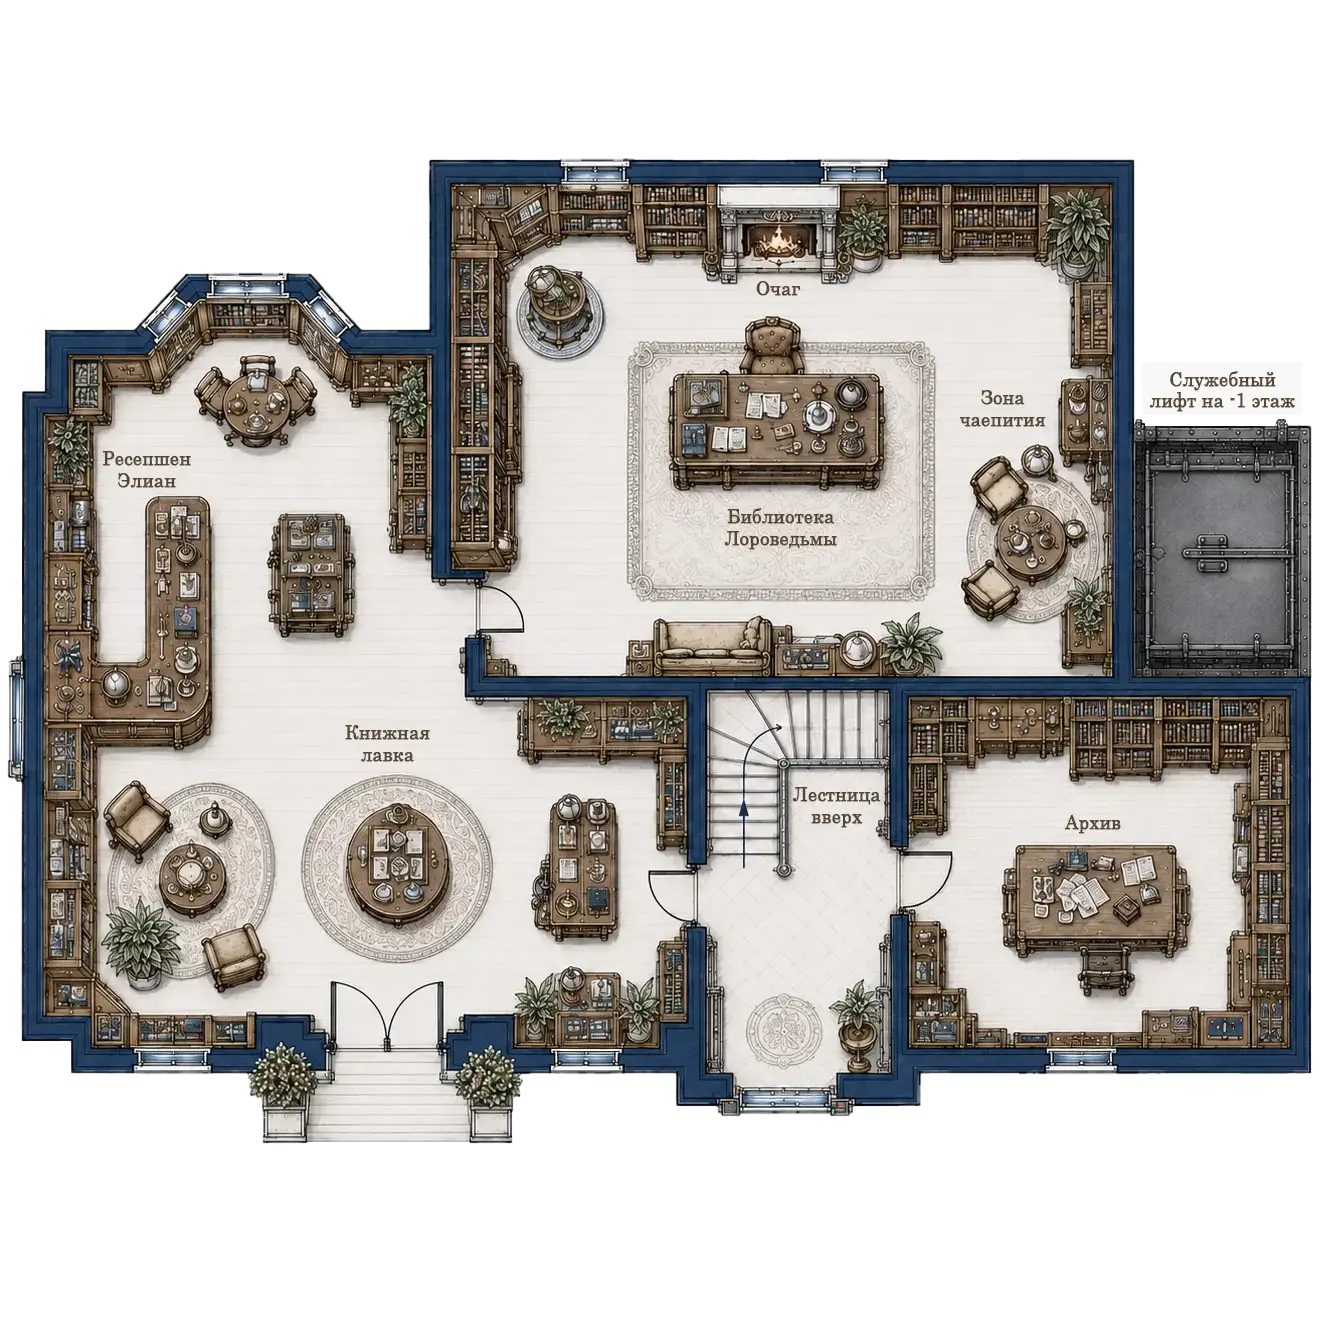
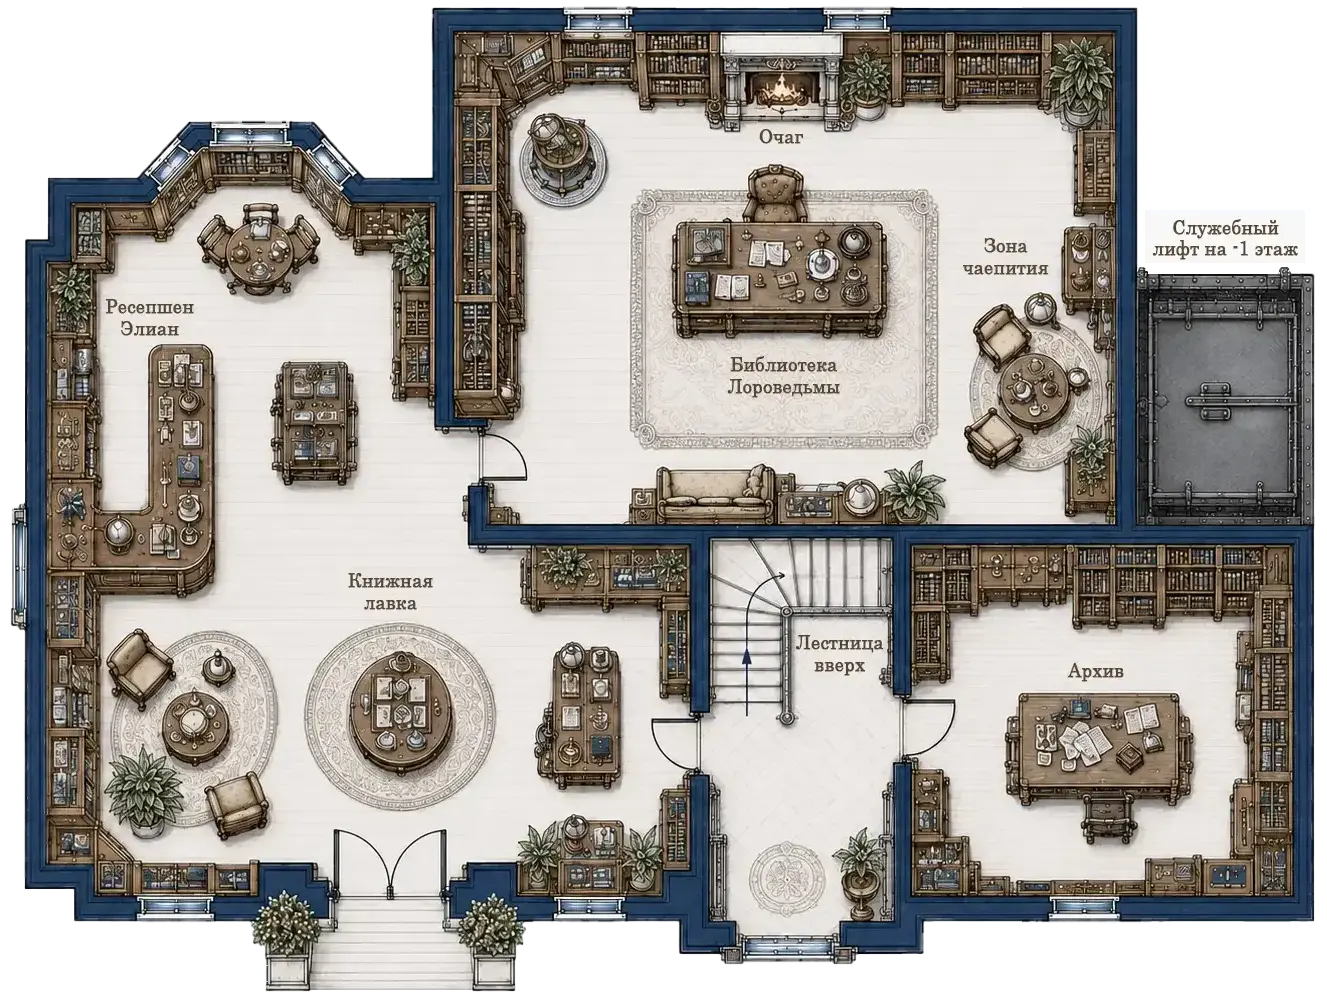
upd v8

diff --git a/style.css b/style.css
@@ -1247,3 +1247,226 @@ h1 {
     height: 92vh;
   }
 }
+
+
+/* === v7: ровные карточки, наклонены только чертежи, кликабельная пустая область === */
+
+.blueprint-grid {
+  display: grid;
+  grid-template-columns: repeat(3, minmax(0, 1fr));
+  gap: 1.05rem;
+  align-items: stretch;
+}
+
+.blueprint-card,
+.blueprint-card.tilt-left,
+.blueprint-card.tilt-right,
+.blueprint-card.tilt-left-small,
+.blueprint-card.tilt-left:hover,
+.blueprint-card.tilt-right:hover,
+.blueprint-card.tilt-left-small:hover {
+  transform: none !important;
+}
+
+.blueprint-card {
+  position: relative;
+  overflow: visible;
+  padding: .95rem .95rem 1rem;
+  border: 1px solid var(--line);
+  border-radius: 1.65rem;
+  background:
+    radial-gradient(circle at 20% 0%, rgba(242, 200, 120, .08), transparent 13rem),
+    linear-gradient(145deg, rgba(255, 244, 218, .085), rgba(255, 244, 218, .03));
+  box-shadow: var(--shadow);
+  transition: border-color .25s ease, translate .25s ease;
+}
+
+.blueprint-card:hover {
+  translate: 0 -.25rem;
+  border-color: rgba(242, 200, 120, .38);
+}
+
+.blueprint-preview {
+  position: relative;
+  width: 100%;
+  aspect-ratio: 4 / 3;
+  display: grid;
+  place-items: center;
+  overflow: visible;
+  padding: 0;
+  border: 0;
+  border-radius: 1.15rem;
+  background:
+    radial-gradient(circle at center, rgba(255, 244, 218, .075), transparent 72%),
+    rgba(255, 244, 218, .022);
+  cursor: zoom-in;
+}
+
+.blueprint-preview::before {
+  content: "";
+  position: absolute;
+  inset: .8rem;
+  border: 1px solid rgba(242, 200, 120, .15);
+  border-radius: 1rem;
+  background: rgba(255, 244, 218, .025);
+}
+
+.blueprint-preview img {
+  position: relative;
+  z-index: 2;
+  width: 112%;
+  height: 112%;
+  object-fit: contain;
+  object-position: center;
+  filter: drop-shadow(0 18px 22px rgba(0, 0, 0, .34));
+  transition: transform .25s ease, filter .25s ease;
+}
+
+.blueprint-card:nth-child(1) .blueprint-preview img {
+  transform: rotate(-3deg) scale(1.03);
+}
+
+.blueprint-card:nth-child(2) .blueprint-preview img {
+  transform: rotate(2.4deg) scale(1.03);
+}
+
+.blueprint-card:nth-child(3) .blueprint-preview img {
+  transform: rotate(-2.2deg) scale(1.03);
+}
+
+.blueprint-card:nth-child(1):hover .blueprint-preview img {
+  transform: rotate(-1.4deg) scale(1.08);
+}
+
+.blueprint-card:nth-child(2):hover .blueprint-preview img {
+  transform: rotate(1.1deg) scale(1.08);
+}
+
+.blueprint-card:nth-child(3):hover .blueprint-preview img {
+  transform: rotate(-.9deg) scale(1.08);
+}
+
+.blueprint-body {
+  position: relative;
+  z-index: 3;
+  padding: .8rem .25rem .1rem;
+}
+
+.plan-modal[hidden] {
+  display: none !important;
+}
+
+.plan-modal {
+  position: fixed;
+  inset: 0;
+  z-index: 100;
+  display: grid;
+  place-items: center;
+  padding: 2.5rem;
+  background: rgba(5, 3, 7, .80);
+  backdrop-filter: blur(10px);
+  cursor: zoom-out;
+}
+
+.plan-modal > img {
+  width: min(96vw, 1500px);
+  height: min(90vh, 1050px);
+  display: block;
+  object-fit: contain;
+  filter: drop-shadow(0 24px 52px rgba(0, 0, 0, .66));
+  cursor: default;
+  pointer-events: auto;
+}
+
+.plan-modal-close {
+  position: fixed;
+  top: 1.1rem;
+  right: 1.1rem;
+  z-index: 105;
+  width: 2.6rem;
+  height: 2.6rem;
+  border: 1px solid rgba(242, 200, 120, .34);
+  border-radius: 999px;
+  color: var(--text);
+  background: rgba(18, 11, 18, .72);
+  font-size: 1.7rem;
+  line-height: 1;
+  cursor: pointer;
+}
+
+.plan-modal-dialog,
+.plan-modal-dialog h3 {
+  all: unset;
+}
+
+.carousel-button {
+  display: none !important;
+}
+
+.resident-viewport {
+  overflow: hidden;
+}
+
+.resident-track {
+  display: flex;
+  gap: .9rem;
+  will-change: transform;
+  transition: transform .72s cubic-bezier(.22, .8, .28, 1);
+}
+
+.resident-track .resident-card {
+  flex: 0 0 calc((100% - 1.8rem) / 3);
+  min-width: calc((100% - 1.8rem) / 3);
+}
+
+.carousel-dots {
+  display: flex;
+  justify-content: center;
+  align-items: center;
+  gap: .55rem;
+  margin-top: .7rem;
+}
+
+.carousel-dot {
+  width: .7rem;
+  height: .7rem;
+  padding: 0;
+  border: 1px solid rgba(242, 200, 120, .42);
+  border-radius: 999px;
+  background: rgba(255, 244, 218, .12);
+  cursor: pointer;
+  transition: transform .2s ease, background .2s ease, width .2s ease;
+}
+
+.carousel-dot.active {
+  width: 1.55rem;
+  background: var(--gold);
+  transform: translateY(-1px);
+}
+
+@media (max-width: 1120px) {
+  .blueprint-grid {
+    grid-template-columns: 1fr;
+  }
+
+  .resident-track .resident-card {
+    flex-basis: calc((100% - .9rem) / 2);
+    min-width: calc((100% - .9rem) / 2);
+  }
+}
+
+@media (max-width: 620px) {
+  .resident-track .resident-card {
+    flex-basis: 100%;
+    min-width: 100%;
+  }
+
+  .plan-modal {
+    padding: .75rem;
+  }
+
+  .plan-modal > img {
+    width: 98vw;
+    height: 92vh;
+  }
+}

diff --git a/script.js b/script.js
@@ -48,53 +48,56 @@ if (quizOptions.length && quizResult && quizReset) {
 
 
 
-// === v6: чистое увеличение чертежей и циклическая карусель ===
-const planModalV6 = document.querySelector("#plan-modal");
-const planModalImageV6 = document.querySelector("#plan-modal-image");
-const planModalCloseV6 = document.querySelector(".plan-modal-close");
-const planButtonsV6 = document.querySelectorAll("[data-plan]");
 
-function closePlanModalV6() {
-  if (!planModalV6 || !planModalImageV6) return;
-  planModalV6.hidden = true;
-  planModalImageV6.src = "";
-  planModalImageV6.alt = "";
+// === v7: чертежи и карусель ===
+const planModalV7 = document.querySelector("#plan-modal");
+const planModalImageV7 = document.querySelector("#plan-modal-image");
+const planModalCloseV7 = document.querySelector(".plan-modal-close");
+const planButtonsV7 = document.querySelectorAll("[data-plan]");
+
+function closePlanModalV7() {
+  if (!planModalV7 || !planModalImageV7) return;
+  planModalV7.hidden = true;
+  planModalImageV7.src = "";
+  planModalImageV7.alt = "";
 }
 
-planButtonsV6.forEach((button) => {
+planButtonsV7.forEach((button) => {
   button.addEventListener("click", () => {
-    if (!planModalV6 || !planModalImageV6) return;
-    const planSrc = button.dataset.plan;
-    const planTitle = button.dataset.title || "Чертёж";
-    planModalImageV6.src = planSrc;
-    planModalImageV6.alt = planTitle;
-    planModalV6.hidden = false;
+    if (!planModalV7 || !planModalImageV7) return;
+    planModalImageV7.src = button.dataset.plan;
+    planModalImageV7.alt = button.dataset.title || "Чертёж этажа";
+    planModalV7.hidden = false;
   });
 });
 
-if (planModalV6) {
-  planModalV6.addEventListener("click", (event) => {
-    if (event.target === planModalV6) {
-      closePlanModalV6();
+if (planModalV7) {
+  planModalV7.addEventListener("click", (event) => {
+    // Закрывает только клик по пустому фону, не по самой картинке и не по кнопке.
+    if (event.target === planModalV7) {
+      closePlanModalV7();
     }
   });
 }
 
-if (planModalCloseV6) {
-  planModalCloseV6.addEventListener("click", closePlanModalV6);
+if (planModalCloseV7) {
+  planModalCloseV7.addEventListener("click", (event) => {
+    event.stopPropagation();
+    closePlanModalV7();
+  });
 }
 
 document.addEventListener("keydown", (event) => {
   if (event.key === "Escape") {
-    closePlanModalV6();
+    closePlanModalV7();
   }
 });
 
-const residentCarouselV6 = document.querySelector("[data-resident-carousel]");
-if (residentCarouselV6) {
-  const track = residentCarouselV6.querySelector(".resident-track");
-  const dots = Array.from(residentCarouselV6.querySelectorAll(".carousel-dot"));
-  const cards = Array.from(residentCarouselV6.querySelectorAll(".resident-card"));
+const residentCarouselV7 = document.querySelector("[data-resident-carousel]");
+if (residentCarouselV7) {
+  const track = residentCarouselV7.querySelector(".resident-track");
+  const dots = Array.from(residentCarouselV7.querySelectorAll(".carousel-dot"));
+  const cards = Array.from(residentCarouselV7.querySelectorAll(".resident-card"));
   const cardsPerSlide = 3;
   const slideCount = Math.max(1, Math.ceil(cards.length / cardsPerSlide));
   let currentSlide = 0;
@@ -134,10 +137,10 @@ if (residentCarouselV6) {
     });
   });
 
-  residentCarouselV6.addEventListener("mouseenter", stopAutoCarousel);
-  residentCarouselV6.addEventListener("mouseleave", startAutoCarousel);
-  residentCarouselV6.addEventListener("focusin", stopAutoCarousel);
-  residentCarouselV6.addEventListener("focusout", startAutoCarousel);
+  residentCarouselV7.addEventListener("mouseenter", stopAutoCarousel);
+  residentCarouselV7.addEventListener("mouseleave", startAutoCarousel);
+  residentCarouselV7.addEventListener("focusin", stopAutoCarousel);
+  residentCarouselV7.addEventListener("focusout", startAutoCarousel);
 
   goToSlide(0);
   startAutoCarousel();